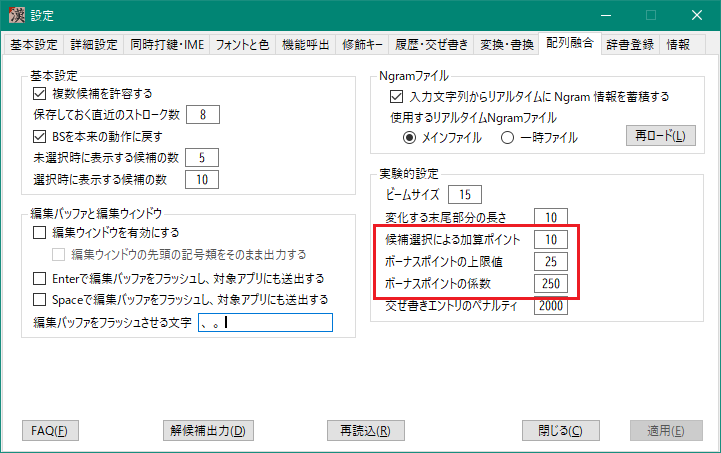
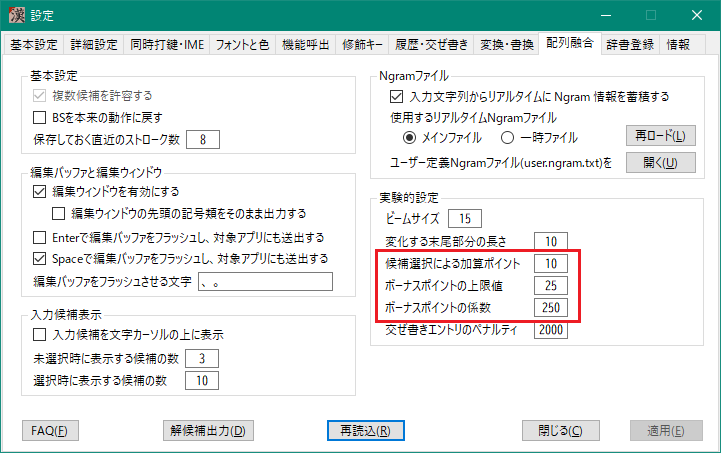
FAQ-配列融合

diff --git a/FAQ/FAQ-配列融合.md b/FAQ/FAQ-配列融合.md
@@ -54,11 +54,14 @@
 ### 特定の語の Ngram コストを上げ下げしたい
 システム搭載の Ngram 解析では思うような入力候補が優先されてこない場合は、ユーザー設定により望みの語の優先順位を上げる(Ngramコストを下げる)ことができます。
 
-`userFiles/user.ngram.txt` をエディターで開き、
+![alt text](image/open-user-ngram-button.png)
+
+上図の「開く」ボタンをクリックすると `userFiles/user.ngram.txt` ファイルがエディターで開きます。
+
 ```
 漢織媛 5
 ```
-のように「Ngram <空白> ボーナスポイント」の形で記述します。上の例は「漢織媛」という 2gram に対して5ボーナスポイントを追加することを定義しています。こうすると、入力候補に「漢織媛」という 2gram が出現した場合は、その候補に対して「ボーナスポイント × ボーナスポイント係数」だけ Ngram コストが下がります。
+のように「Ngram <空白> ボーナスポイント」の形で記述します。上の例は「漢織媛」という 3gram に対して5ボーナスポイントを追加することを定義しています。こうすると、入力候補に「漢織媛」という 3gram が出現した場合は、その候補に対して「ボーナスポイント × ボーナスポイント係数」だけ Ngram コストが下がります。
 
 なお、このファイルに記述できるのは、1gram ～ 4gram に限定されています。
 